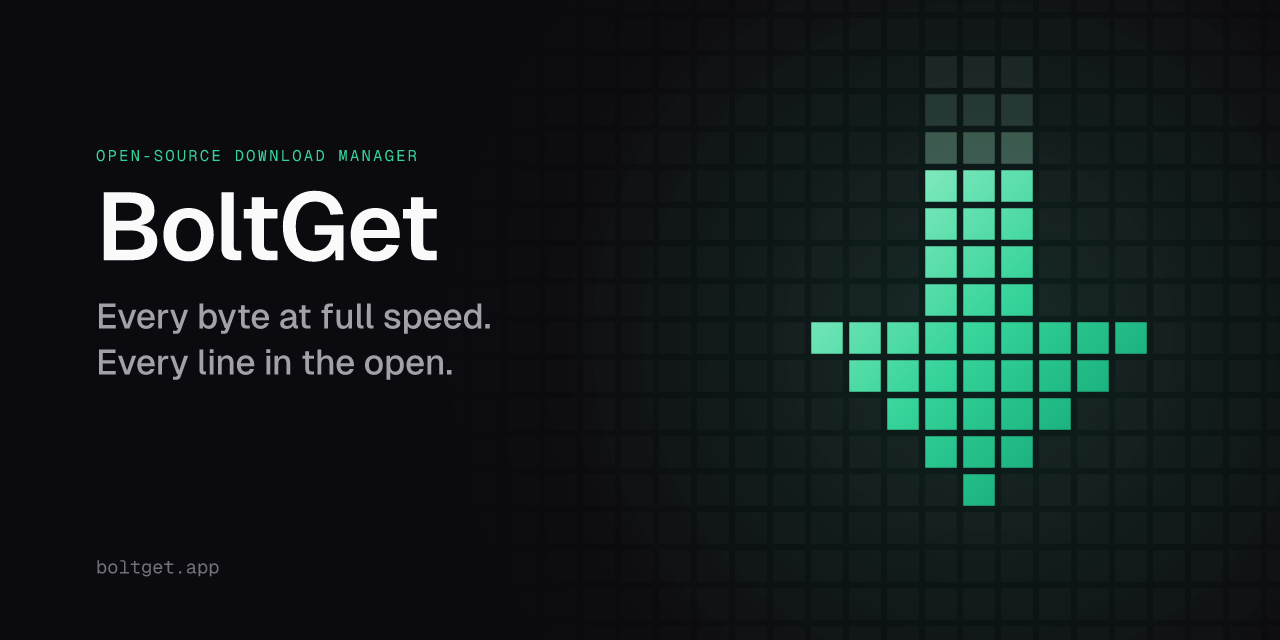
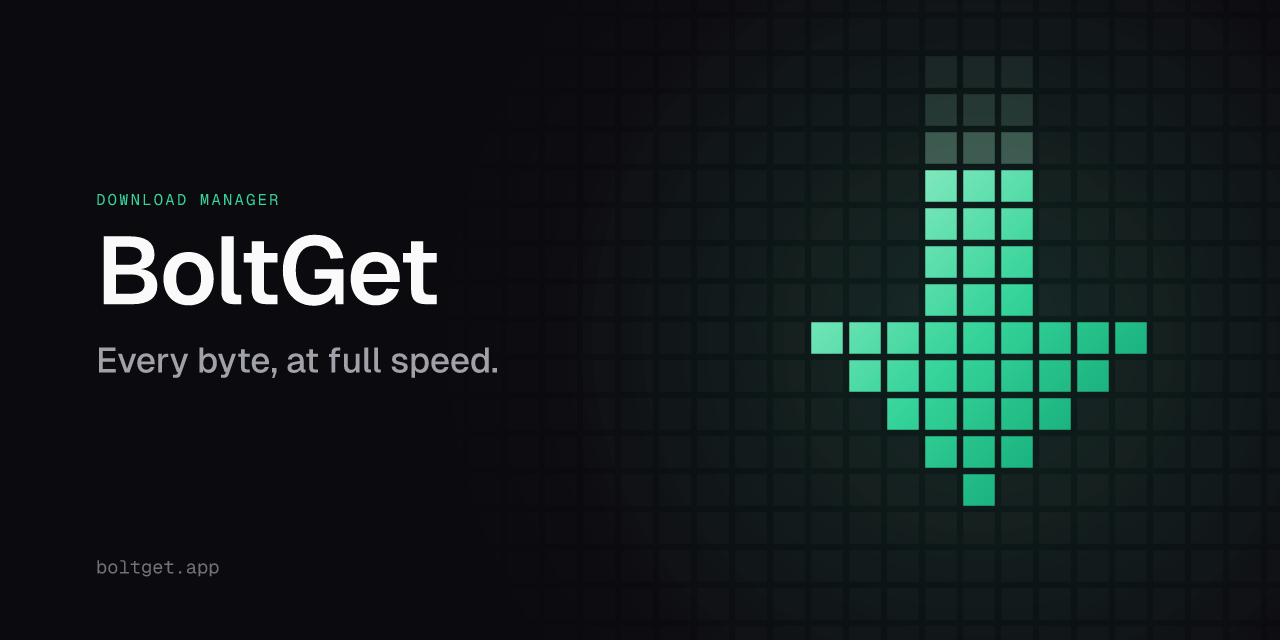
feat(brand): update tagline and social images

Changed region(s): [[0.0625, 0.2812, 0.4062, 0.5938], [0.0625, 0.2188, 0.3125, 0.25]]

diff --git a/brand/preview.html b/brand/preview.html
@@ -107,9 +107,9 @@ figcaption{font:12px "Geist Mono",monospace;color:var(--subtle)}
 
 <h2>Typography</h2>
 <div class="type">
-<div class="row"><code>Display 56/600</code><div style="font-size:56px;font-weight:600;letter-spacing:-.035em;line-height:1.05">Every byte at full speed.</div></div>
-<div class="row"><code>H1 40/600</code><div style="font-size:40px;font-weight:600;letter-spacing:-.03em;line-height:1.1">Fast by default. Free for good.</div></div>
-<div class="row"><code>H2 28/600</code><div style="font-size:28px;font-weight:600;letter-spacing:-.02em">Every line in the open.</div></div>
+<div class="row"><code>Display 56/600</code><div style="font-size:56px;font-weight:600;letter-spacing:-.035em;line-height:1.05">Every byte, at full speed.</div></div>
+<div class="row"><code>H1 40/600</code><div style="font-size:40px;font-weight:600;letter-spacing:-.03em;line-height:1.1">Picks up exactly where it stopped.</div></div>
+<div class="row"><code>H2 28/600</code><div style="font-size:28px;font-weight:600;letter-spacing:-.02em">Every connection stays busy.</div></div>
 <div class="row"><code>Body 15/400</code><div>BoltGet splits each file into chunks and fetches them in parallel, then assembles them on disk.</div></div>
 <div class="row"><code>Mono 13/400</code><div class="mono" style="font-size:13px">4.2 GB · 16 connections · 98.4 MB/s · 00:43 left</div></div>
 </div>
